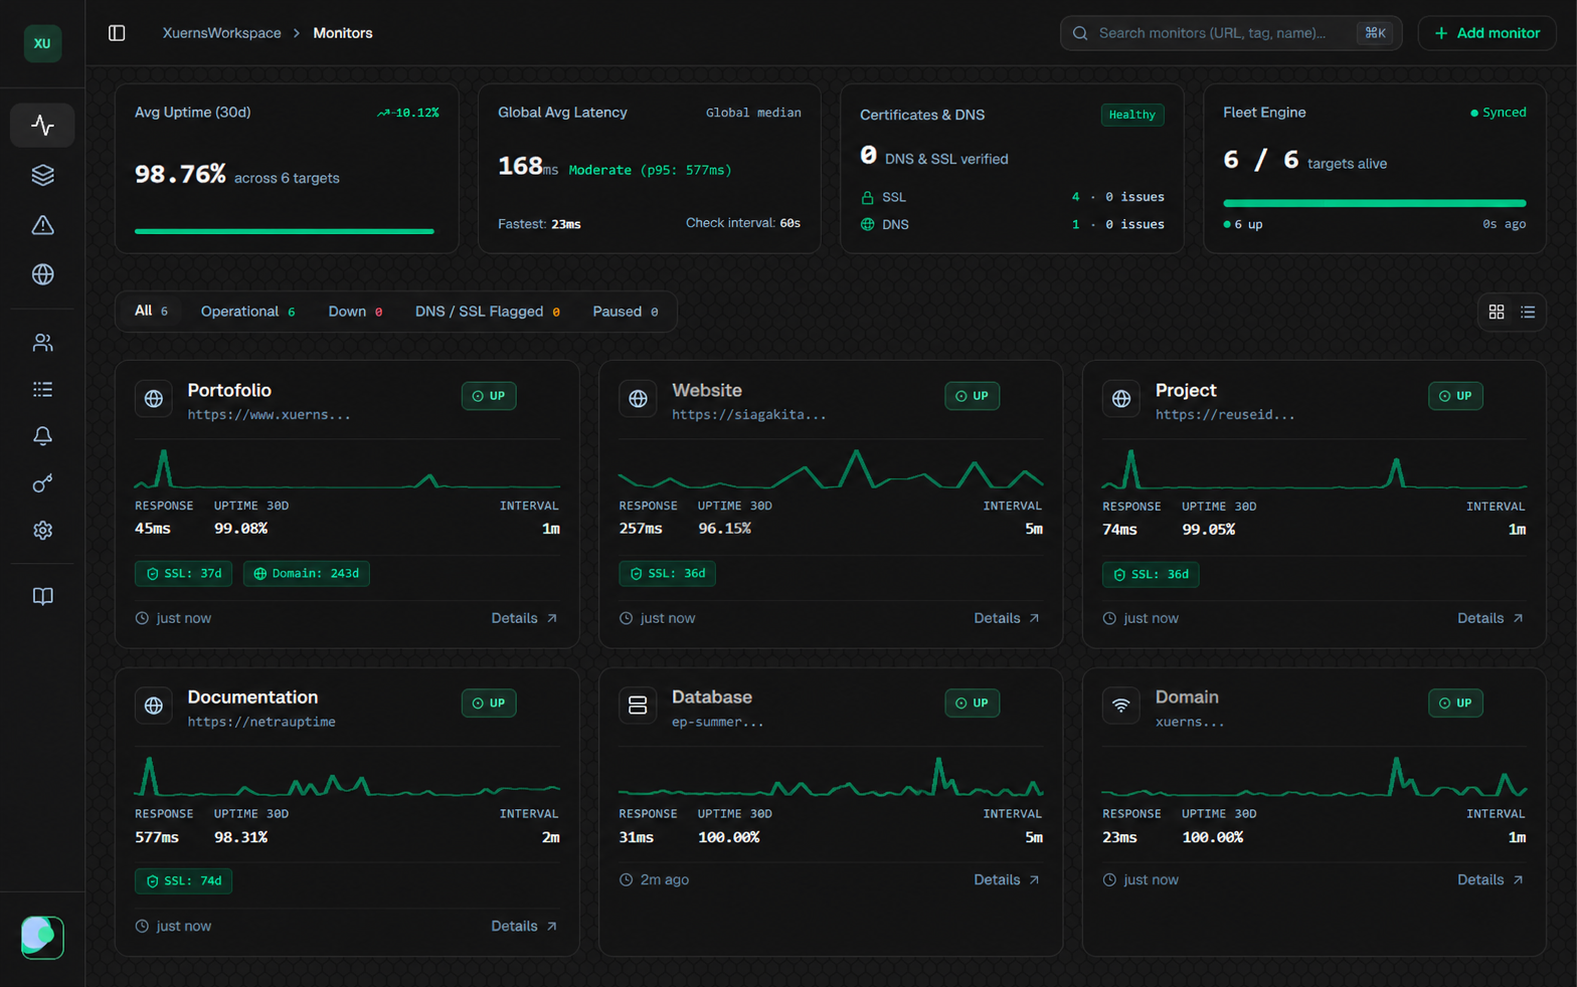
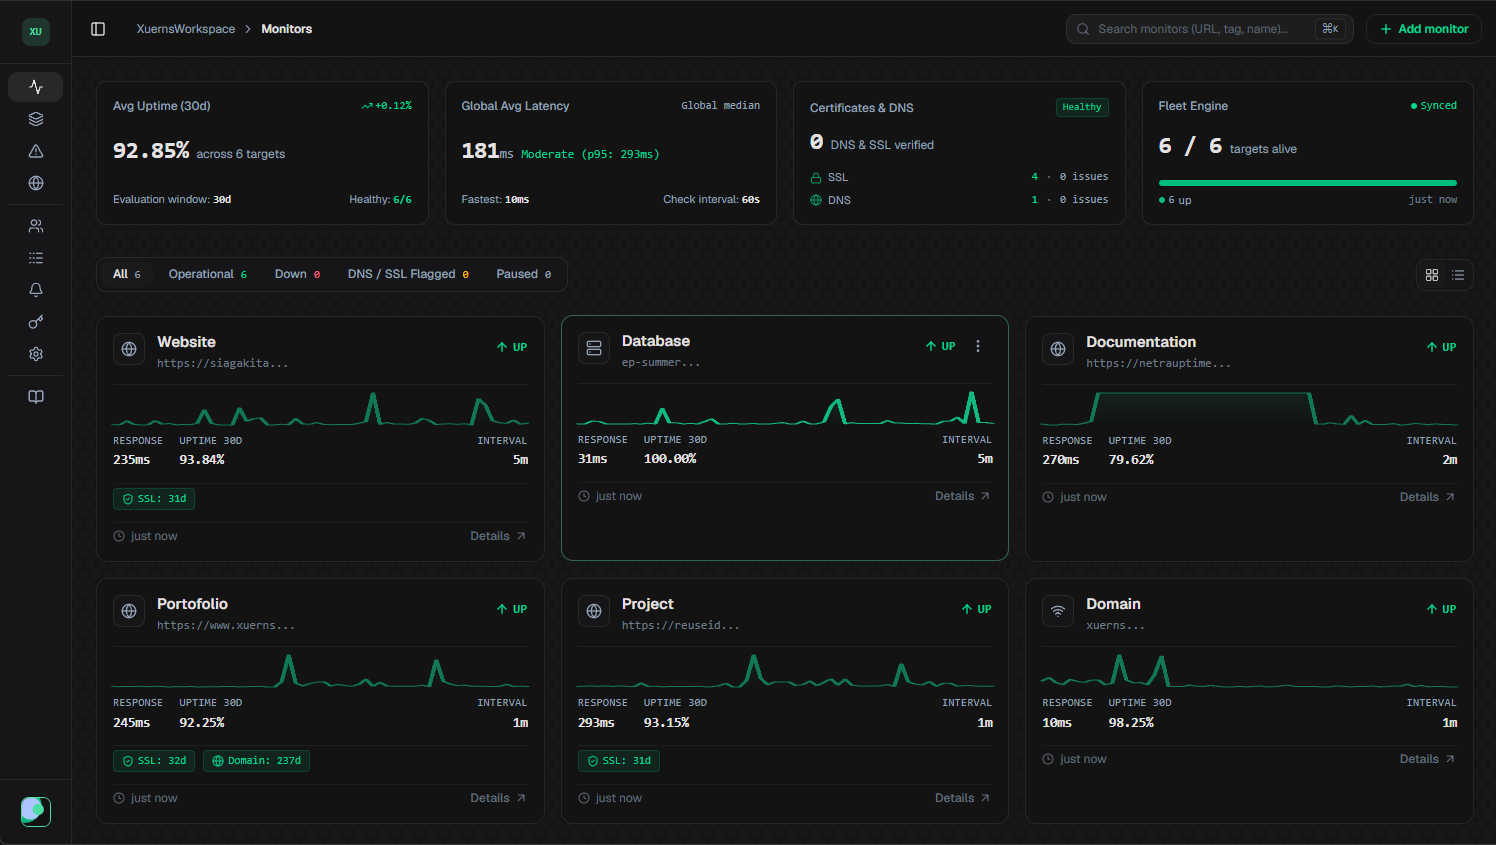
feat: update picture for readme, change public monitor row and component group components for status page

diff --git a/client/src/lib/components/statuspage/public/PublicComponentGroups.svelte b/client/src/lib/components/statuspage/public/PublicComponentGroups.svelte
@@ -156,13 +156,6 @@
 									</span>
 								</div>
 							</div>
-
-							<div
-								class="flex items-center gap-1.5 text-xs font-medium px-2.5 py-1 rounded-full bg-white/5 border border-border/60 shrink-0"
-							>
-								<span style={uBadge.dotStyle} class="size-2 rounded-full {uBadge.dotClass}"></span>
-								<span style={uBadge.textStyle} class={uBadge.textClass}>{uBadge.label}</span>
-							</div>
 						</Collapsible.Trigger>
 
 						<Collapsible.Content

diff --git a/client/src/lib/components/statuspage/PublicMonitorRow.svelte b/client/src/lib/components/statuspage/PublicMonitorRow.svelte
@@ -101,6 +101,7 @@
 			<div
 				class="flex items-center gap-1.5 text-xs font-medium px-2.5 py-1 rounded-full bg-white/5 border border-border/60"
 			>
+				<span style={statusInfo.dotStyle} class="size-2 rounded-full {statusInfo.dotClass}"></span>
 				<span style={statusInfo.textStyle} class={statusInfo.textClass}>{statusInfo.label}</span>
 			</div>
 		</div>
